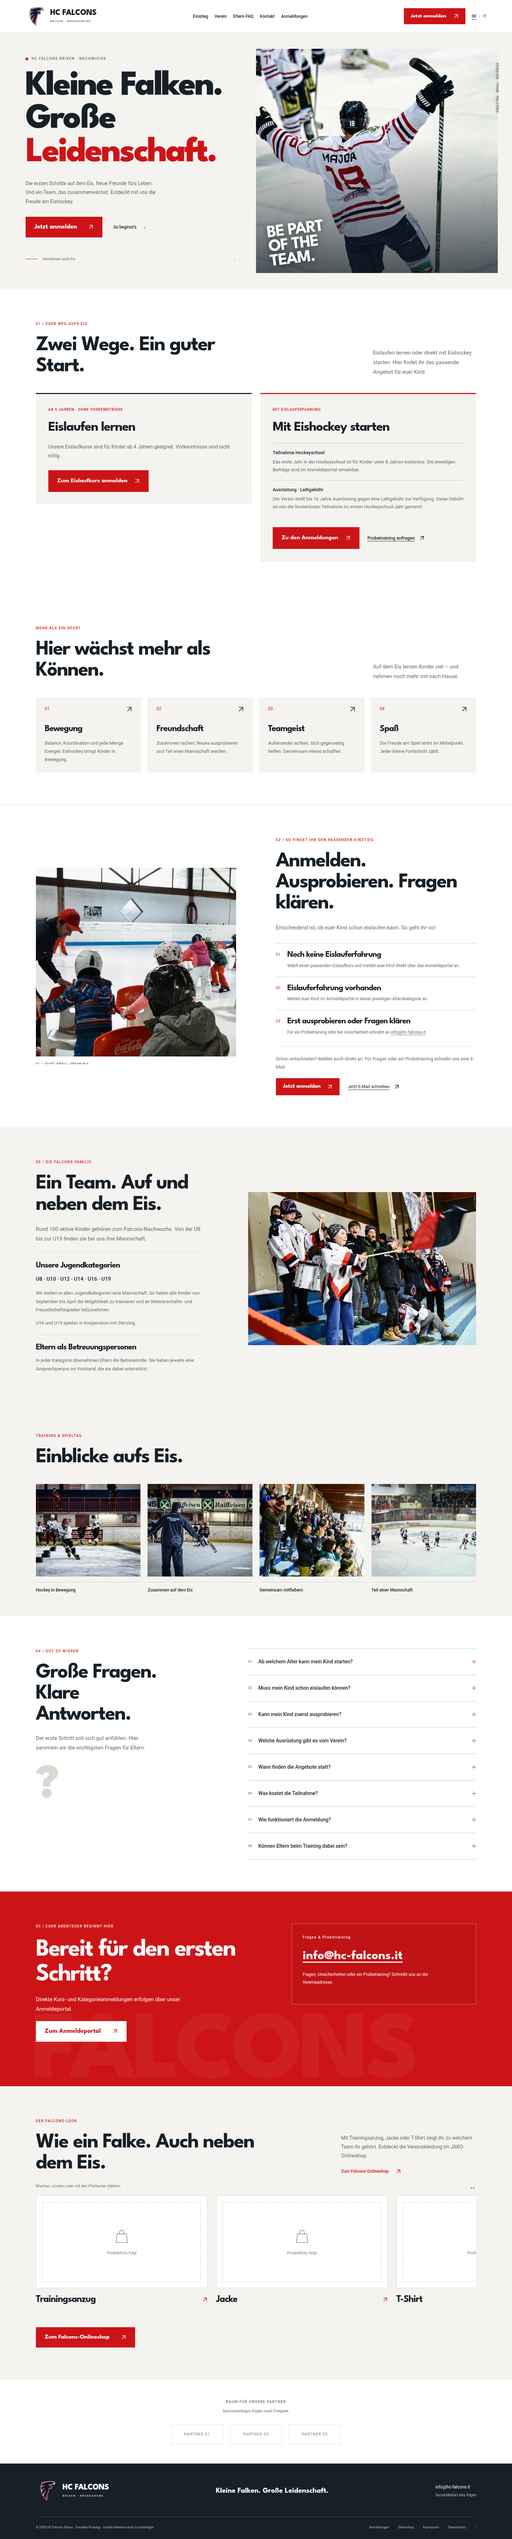
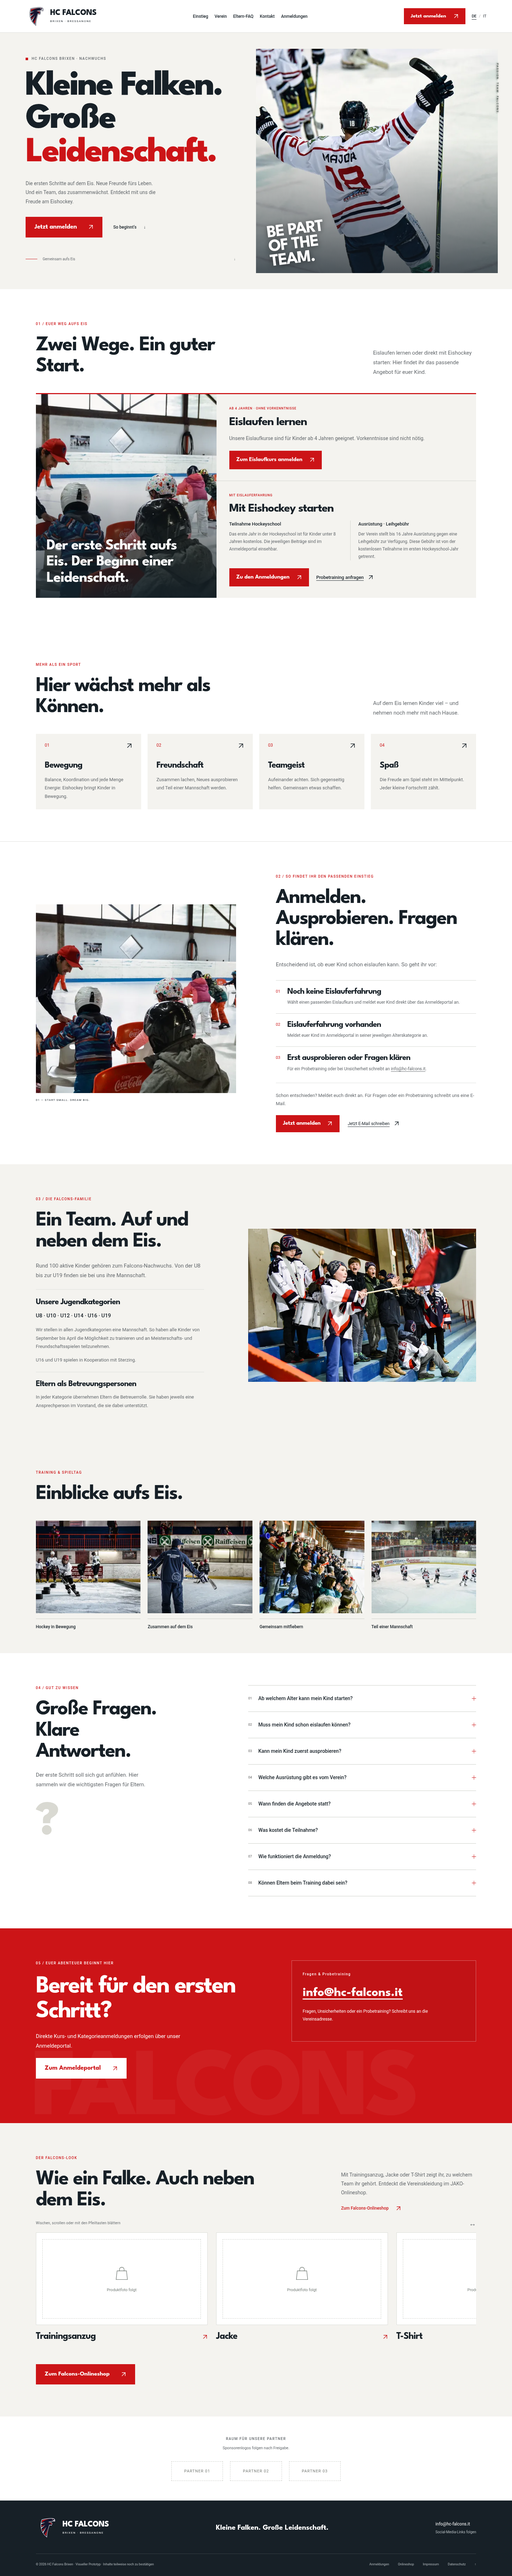
Unify entry offers into an emotional photo and content block

diff --git a/src/components/styles.css b/src/components/styles.css
@@ -33,3 +33,7 @@
 /* Native scroll-snap product preview, without autoplay or client JavaScript. */
 .shop{background:var(--paper)}.shop .section-top{gap:55px;margin-bottom:25px}.shop-intro{max-width:380px}.shop-intro>p{font-size:14px;color:var(--muted)}.shop-intro .text-link{color:var(--red);display:inline-flex}.shop-scroll-hint{display:flex;justify-content:space-between;gap:20px;font-size:10px;letter-spacing:.03em;color:var(--muted);margin-bottom:15px}.shop-scroll-hint>span{font-family:Arial,sans-serif;font-size:20px;line-height:1}.shop-slider{display:flex;gap:24px;overflow-x:auto;overscroll-behavior-x:contain;scroll-snap-type:x mandatory;padding:0 0 19px;margin:0;list-style:none;scrollbar-color:var(--red) #dadcd6;scrollbar-width:thin}.shop-slider:focus-visible{outline:3px solid var(--red);outline-offset:5px}.shop-item{flex:0 0 39%;min-width:0;scroll-snap-align:start}.shop-item>a{display:block}.shop-item>a:focus-visible{outline-offset:-3px}.shop-product-image{height:260px;background:#fff;border:1px solid #dadcd6;display:flex;align-items:center;justify-content:center;overflow:hidden}.shop-product-image>img{display:block;width:100%;height:100%;object-fit:contain;padding:16px}.product-pending{display:flex;flex-direction:column;gap:17px;align-items:center;justify-content:center;color:#747c77;border:1px dashed #c9cdc7;width:calc(100% - 35px);height:calc(100% - 35px)}.product-pending>span{font-size:11px}.shop-item-caption{display:flex;justify-content:space-between;gap:20px;align-items:center;padding:19px 0}.shop-item-caption h3{font-size:27px}.shop-item-caption .arrow-icon{color:var(--red)}.shop-main-link{margin-top:25px;font-size:17px}
 @media(max-width:760px){.entry-actions>div{gap:24px}.shop .section-top{display:block}.shop-intro{max-width:none;margin-top:22px}.shop-item{flex-basis:82%}.shop-slider{gap:16px}.shop-product-image{height:230px}.shop-item-caption h3{font-size:26px}.shop-scroll-hint{font-size:9px;letter-spacing:0}.shop-main-link{font-size:16px;padding:18px 20px;gap:20px}}
+/* A continuous photo-and-content block replaces the uneven entry cards. */
+.offer-feature{display:grid;grid-template-columns:minmax(0,.82fr) minmax(0,1.18fr);background:var(--paper);overflow:hidden;border-top:3px solid var(--red)}.offer-feature-visual{position:relative;min-width:0;min-height:100%;isolation:isolate}.offer-feature-photo{position:absolute;inset:0;height:100%;min-height:0}.offer-feature-photo img{object-position:40% center}.offer-feature-visual:after{content:'';position:absolute;inset:40% 0 0;background:linear-gradient(transparent,#142027e6);z-index:1;pointer-events:none}.offer-photo-caption{position:absolute;z-index:2;bottom:32px;left:30px;right:30px;margin:0;color:#fff;font:700 clamp(27px,3vw,42px)/1.08 'League Spartan',sans-serif;letter-spacing:-.025em;max-width:370px}.offer-feature .offer-grid{display:flex;flex-direction:column;gap:0;min-width:0}.offer-feature .offer-card{background:transparent;border:0;padding:32px 36px;min-width:0}.offer-feature .hockey-offer{border-top:1px solid #d1d5ce}.offer-feature .offer-badge{margin-bottom:13px;font-size:9px}.offer-feature .offer-card h3{font-size:34px;margin-bottom:16px}.offer-feature .offer-card>p:not(.offer-badge){margin-bottom:0}.offer-feature .offer-actions{margin-top:22px;gap:20px}.offer-feature .offer-actions .button{padding:16px 20px;font-size:16px}.offer-feature .offer-costs{display:grid;grid-template-columns:1fr 1fr;gap:22px;margin:5px 0 0}.offer-feature .offer-costs>div{border-top:0;padding:0}.offer-feature .offer-costs>div+div{border-left:1px solid #d1d5ce;padding-left:22px}.offer-feature .offer-costs dt{line-height:1.5}.offer-feature .offer-costs dd{font-size:12px;line-height:1.75}
+@media(max-width:1050px){.offer-feature{grid-template-columns:minmax(0,.75fr) minmax(0,1.25fr)}.offer-feature .offer-card{padding:28px}.offer-feature .offer-card h3{font-size:31px}.offer-feature .offer-costs{gap:16px}.offer-feature .offer-costs>div+div{padding-left:16px}}
+@media(max-width:760px){.offer-feature{grid-template-columns:1fr}.offer-feature-visual{min-height:0;height:300px}.offer-feature-photo img{object-position:center 55%}.offer-photo-caption{left:25px;bottom:24px;right:25px;font-size:32px;max-width:300px}.offer-feature .offer-card{padding:28px 24px}.offer-feature .offer-card h3{font-size:32px}.offer-feature .offer-costs{grid-template-columns:1fr;gap:18px}.offer-feature .offer-costs>div+div{border-left:0;border-top:1px solid #d1d5ce;padding:18px 0 0}.offer-feature .offer-actions{gap:22px}.offer-feature .offer-actions .button{font-size:16px;max-width:100%}}

diff --git a/src/data/content.ts b/src/data/content.ts
@@ -116,6 +116,7 @@ export const content = {
     "social": "Social-Media-Links folgen",
     "skip": "Zum Inhalt",
     "prototype": "Visueller Prototyp · Inhalte teilweise noch zu bestätigen",
+    "offerPhotoCaption": "Der erste Schritt aufs Eis. Der Beginn einer Leidenschaft.",
     "offersLabel": "EUER WEG AUFS EIS",
     "offersTitle": "Zwei Wege. Ein guter Start.",
     "offersIntro": "Eislaufen lernen oder direkt mit Eishockey starten: Hier findet ihr das passende Angebot für euer Kind.",
@@ -278,6 +279,7 @@ export const content = {
     "social": "Link social in arrivo",
     "skip": "Vai al contenuto",
     "prototype": "Prototipo visivo · Alcuni contenuti da confermare",
+    "offerPhotoCaption": "Il primo passo sul ghiaccio. L’inizio di una passione.",
     "offersLabel": "IL VOSTRO PERCORSO SUL GHIACCIO",
     "offersTitle": "Due percorsi. Un buon inizio.",
     "offersIntro": "Imparare a pattinare o iniziare subito con l’hockey: trovate l’attività adatta a vostro figlio.",

diff --git a/README.md b/README.md
@@ -57,3 +57,7 @@ Unter dem praktischen Einstiegsleitfaden stehen genau zwei gemeinsame Aktionen: 
 `src/components/Shop.astro` zeigt einen nativen, per Touch, Trackpad und Tastatur bedienbaren Scroll-Snap-Slider mit Shoplink. Kein Autoplay und kein zusätzliches Browser-JavaScript. Die genannten Kategorien Trainingsanzug, Jacke und T-Shirt stammen vom Nutzer; konkrete Modelle, Preise oder Verfügbarkeiten wurden nicht ergänzt.
 
 **Noch offen: echte Produktfotos.** Der Abruf von `https://team.jako.com/de-de/team/falcons/` wird durch den Netzwerkproxy dieser Cloud-Umgebung mit HTTP 403 beim CONNECT blockiert. Die Netzwerkfreigabe für `team.jako.com` wurde als Konfigurationsentwurf gespeichert; dies aktiviert den Zugriff noch nicht. Nach Freigabe ggf. zusätzlich die vom Shop tatsächlich verwendeten Bilddomains prüfen. Alternativ freigegebene Produktbilder im Repository hochladen. Anschließend in `src/data/shop.ts` importieren und die drei `null`-Einträge ersetzen. Bis dahin werden klar beschriftete Fotoplatzhalter gezeigt. Keine Produktbilder wurden erfunden oder aus anderen Shops übernommen.
+
+## Gemeinsamer Angebotsblock
+
+Die beiden Einstiegswege sind als ein zusammenhängender Bild-Text-Block gestaltet: Originalfoto vom Eislaufenlernen links, zwei durch eine Linie getrennte Informationsbereiche rechts. Auf schmalen Displays steht das Bild über den Angeboten. Alle bestätigten Angaben und Anmelde-/E-Mail-Ziele bleiben erhalten. Texte und Bildunterschrift sind in Deutsch und Italienisch verfügbar.
